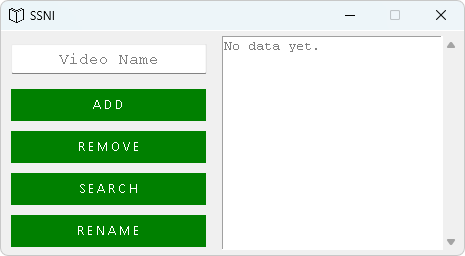
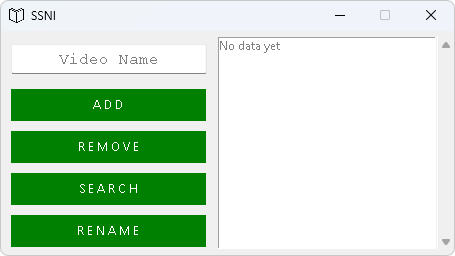
Replaced Text widget with ListBox widget Fixed image path after turning it executable

diff --git a/PROJECT GUIs/SSNI/SSNI.py b/PROJECT GUIs/SSNI/SSNI.py
@@ -37,7 +37,7 @@ class SSNI:
         pygame.init()
         pygame.mixer.music.load(self.ErrorAudioFile)
 
-        self.BackImage = PhotoImage(file='included_files/back.png')
+        self.BackImage = PhotoImage(file=self.resource_path('back.png'))
         self.buttons_attributes = {'bd': 0, 'width': _width, 'bg': 'green', 'fg': 'white',
                                    'activebackground': 'green', 'activeforeground': 'white',
                                    'cursor': 'hand2'}
@@ -45,7 +45,7 @@ class SSNI:
         self.LeftFrame = Frame(self.master)
         self.LeftFrame.pack(side=LEFT)
         self.RightFrame = Frame(self.master)
-        self.RightFrame.pack(side=RIGHT)
+        self.RightFrame.pack(side=RIGHT, pady=5, anchor='w')
 
         self.FirstLeftFrame = Frame(self.LeftFrame)
         self.FirstLeftFrame.pack(side=LEFT)
@@ -65,16 +65,12 @@ class SSNI:
         self.rename_window_button = Button(self.FirstLeftFrame, text='R E N A M E', **self.buttons_attributes, command=self.ShowRenamingWidgets)
         self.rename_window_button.pack(pady=5, ipady=buttons_ipady)
 
-        self.text_area = Text(self.RightFrame, width=27, height=13, state=DISABLED, cursor='arrow')
-        self.scrollbar = Scrollbar(self.RightFrame, orient="vertical", command=self.text_area.yview)
-        self.text_area.config(yscrollcommand=self.scrollbar.set)
-        self.text_area.pack(side=LEFT, ipady=1)
+        self.ListBoxVariable = Variable()
+        self.ListBox = Listbox(self.RightFrame, width=36, height=13, activestyle='none', listvariable=self.ListBoxVariable)
+        self.scrollbar = Scrollbar(self.RightFrame, orient="vertical", command=self.ListBox.yview)
+        self.ListBox.config(yscrollcommand=self.scrollbar.set)
+        self.ListBox.pack(side=LEFT, ipady=1)
         self.scrollbar.pack(side=RIGHT, fill='y')
-        self.RightFrame.pack(pady=5, padx=4, anchor='w')
-
-        self.text_area.config(state=NORMAL)
-        self.text_area.delete('1.0', END)
-        self.RightFrame.pack(padx=5, pady=5, side=LEFT)
 
         self.SecondLeftFrame = Frame(self.LeftFrame)
 
@@ -95,6 +91,8 @@ class SSNI:
         self.back_button = Button(self.SecondLeftFrame, image=self.BackImage, bd=0, cursor='hand2', activebackground=back_active_bg, command=self.back_command)
         self.back_button.pack(ipady=buttons_ipady)
 
+        self.master.bind('<F5>', self.InsertToListBox)
+        self.ListBox.bind('<Button-3>', self.RightClick)
         self.master.bind('<Button-1>', self.key_bindings)
         self.back_button.bind('<Return>', self.back_command)
         self.video_entry.bind('<Button-3>', self.RightClick)
@@ -102,12 +100,11 @@ class SSNI:
         self.old_name_entry.bind('<FocusIn>', self.key_bindings)
         self.new_name_entry.bind('<FocusIn>', self.key_bindings)
         self.rename_button.bind('<Return>', self.rename_command)
+        self.master.bind_class('Button', '<FocusIn>', lambda event, focus_out=True: self.key_bindings(event, focus_out))
 
         self.master.after(0, self.center_window)
-        self.master.after(0, self.insert_text_area)
+        self.master.after(0, self.InsertToListBox)
 
-        self.master.bind('<F5>', lambda e: self.insert_text_area())
-        self.master.bind_class('Button', '<FocusIn>', lambda event, focus_out=True: self.key_bindings(event, focus_out))
         self.master.mainloop()
 
     def center_window(self):
@@ -125,7 +122,7 @@ class SSNI:
 
         self.master.deiconify()
 
-    def config_entry(self, widget, color, insert=True):
+    def config_entry(self, widget, color='grey', insert=True):
         '''Configure behavior of entries widget when user clicks in or out of them'''
 
         widget.delete(0, END)
@@ -134,6 +131,7 @@ class SSNI:
 
         if insert:
             widget.insert(END, self.widgets[widget][0])
+            self.master.focus()
 
     def key_bindings(self, event, focus_out=False):
         '''When user clicks in and out of the entry boxes'''
@@ -153,6 +151,9 @@ class SSNI:
             for _widget in self.widgets:
                 if not _widget.get().strip():
                     self.config_entry(_widget, 'grey')
+
+        if widget not in [self.ListBox, self.scrollbar]:  # Remove selection of Listbox when user clicks to other widget
+            self.ListBox.selection_clear(0, END)
 
         if widget in [self.master, self.SecondLeftFrame, self.FirstLeftFrame, self.scrollbar]:
             self.master.focus()
@@ -181,56 +182,54 @@ class SSNI:
     def write_to_file(self, contents):
         '''Writting new or renamed data to the file'''
 
-        contents.sort(key=len)
-
         with open(self.file_name, 'w') as f:
             for content in contents:
                 f.write(f'{content}\n')
 
-        return contents
-
-    def insert_text_area(self, contents=None):
+    def InsertToListBox(self, event=None, contents=None, remove=False):
         '''Insert contents of file in Text widget'''
 
-        if contents is not None:
-            contents = self.write_to_file(contents)
-
-        else:
+        if contents is None:
             contents = self.read_file()
 
-        self.text_area.config(state=NORMAL)
-
         if contents:
-            self.text_area.delete('1.0', END)
-            self.text_area.config(fg='black')
+            contents.sort(key=len)
 
-            for index, content in enumerate(contents):
-                if index == 0:
-                    self.text_area.insert(END, content)
+            if self.ListBoxVariable.get() and self.ListBoxVariable.get()[0] == 'No data yet':
+                self.ListBox.itemconfig(0, foreground='black')
 
-                else:
-                    self.text_area.insert(END, '\n' + content)
+            if remove is False:
+                self.ListBoxVariable.set(contents)
+
+            else:
+                # When user removes any value then the deleted value
+                # gets selected by red color first and then after 800ms
+                # the value in the ListBox gets deleted. When doing so
+                # the ListBox scrolls back to the top(its default behavior).
+                # To avoid this default scrolling remove parameter removes
+                # the respective value without scrolling to the top.
+
+                index = self.ListBox.get(0, END).index(remove)
+                self.ListBox.delete(index)
+
+            self.write_to_file(contents)
 
         else:
-            self.text_area.delete('1.0', END)
-            self.text_area.config(fg='grey')
-            self.text_area.insert('1.0', 'No data yet.')
+            # When there is no value in text files
 
-        self.text_area.config(state=DISABLED)
+            self.ListBoxVariable.set(['No data yet'])
+            self.ListBox.itemconfig(0, foreground='grey')
 
-        try:
-            self.text_area.yview(self.line)
-            self.line = None
-
-        except (AttributeError, TclError):
-            pass
-
-    def add_remove_search_command(self, button_name):
+    def add_remove_search_command(self, button_name, from_listbox=None):
         '''Commands when user clicks either ADD, REMOVE or SEARCH buttons'''
 
-        success = False
         contents = self.read_file()
-        from_entry = self.video_entry.get().strip()
+
+        if from_listbox is None:
+            from_entry = self.video_entry.get().strip()
+
+        else:
+            from_entry = self.ListBox.selection_get()
 
         if from_entry == 'Video Name':
             pygame.mixer.music.play()
@@ -238,38 +237,32 @@ class SSNI:
         elif button_name == 'ADD':
             if from_entry in contents:
                 self.highlight(from_entry, '#e8cb10')
-                self.config_entry(self.video_entry, 'grey')
 
             else:
-                success = True
+                contents.append(from_entry)
+
+                self.InsertToListBox(contents=contents)
+                self.highlight(from_entry, 'green')
 
         elif button_name == 'REMOVE':
             if from_entry in contents:
-                self.master.focus()
+                self.ListBox.selection_clear(0, END)
                 contents.remove(from_entry)
+
                 self.highlight(from_entry, 'red')
-                self.config_entry(self.video_entry, 'grey')
-                self.master.after(800, lambda: self.insert_text_area(contents))
+                self.master.after(800, lambda: self.InsertToListBox(contents=contents, remove=from_entry))
 
             else:
                 pygame.mixer.music.play()
 
-        else:
+        elif button_name == 'SEARCH':
             if from_entry in contents:
-                self.master.focus()
                 self.highlight(from_entry, '#3ccbde')
-                self.config_entry(self.video_entry, 'grey')
 
             else:
                 pygame.mixer.music.play()
 
-        if success:
-            contents.append(from_entry)
-            self.insert_text_area(contents)
-            self.highlight(from_entry, 'green')
-
-            self.config_entry(self.video_entry, 'grey')
-            self.master.focus()
+        self.config_entry(self.video_entry)
 
     def rename_command(self, event=None):
         '''Commands when user clicks RENAME button'''
@@ -285,7 +278,7 @@ class SSNI:
             old_name_index = contents.index(old_name)
             contents[old_name_index] = new_name
 
-            self.insert_text_area(contents)
+            self.InsertToListBox(contents)
 
             for widget in [self.old_name_entry, self.new_name_entry]:
                 self.config_entry(widget, 'grey')
@@ -296,29 +289,33 @@ class SSNI:
     def highlight(self, value, color):
         '''Fill color when value is added, removed and searched'''
 
-        self.line = self.text_area.search(value, '1.0', 'end')
-        self.text_area.tag_add('highlight', self.line, f'{self.line.split(".")[0]}.end+1c')
-        self.text_area.tag_config('highlight', background=color, foreground='white')
-        self.text_area.yview(self.line)
+        index = self.ListBox.get(0, END).index(value)
+        self.ListBox.see(index)
+
+        self.ListBox.itemconfig(index, background=color, foreground='white')
 
         if self.after_id:
             self.master.after_cancel(self.after_id)
             self.after_id = None
 
-        self.after_id = self.master.after(800, lambda: self.text_area.tag_delete('highlight'))
+        self.after_id = self.master.after(800, lambda: self.ListBox.itemconfig(index, background='white', foreground='black'))
 
-    def copy_cut(self, cut=False):
+    def copy_cut(self, cut=False, from_listbox=False):
         '''Command for copying and cutting selected text of entry widget'''
 
         if self.video_entry.selection_present():
             text = self.video_entry.get()
-            pyperclip.copy(text)  # Copying selected text to clipboard
 
             if cut:
                 # When user clicks to the cut option of right-click
                 # menu then deleting the text inside of the selection
 
                 self.video_entry.delete('sel.first', 'sel.last')
+
+        elif from_listbox is True:
+            text = self.ListBox.selection_get()
+
+        pyperclip.copy(text)  # Copying selected text to clipboard
 
     def paste(self):
         '''Command for pasting text from system clipboard to the position
@@ -335,32 +332,56 @@ class SSNI:
     def RightClick(self, event=None):
         '''When user right clicks inside list-box'''
 
+        x, y = self.master.winfo_pointerxy()
+        widget = self.master.winfo_containing(x, y)
         RightClickMenu = Menu(self.master, tearoff=False)
 
-        RightClickMenu.add_command(label='Copy', command=self.copy_cut)
-        RightClickMenu.add_command(label='Cut', command=lambda: self.copy_cut(cut=True))
-        RightClickMenu.add_command(label='Paste', command=self.paste)
+        if widget == self.video_entry:
+            RightClickMenu.add_command(label='Copy', command=self.copy_cut)
+            RightClickMenu.add_command(label='Cut', command=lambda: self.copy_cut(cut=True))
+            RightClickMenu.add_command(label='Paste', command=self.paste)
 
-        if not pyperclip.paste():
-            # When there is no text in clipboard then
-            # disabling paste options in right-click menu
+            if not pyperclip.paste():
+                # When there is no text in clipboard then
+                # disabling paste options in right-click menu
 
-            RightClickMenu.entryconfig(2, state='disabled')
+                RightClickMenu.entryconfig(2, state='disabled')
 
-        if self.video_entry.select_present() is False:
-            # When there is no selection in entry widget then
-            # disabling copy and cut options in right-click menu
+            if self.video_entry.select_present() is False:
+                # When there is no selection in entry widget then
+                # disabling copy and cut options in right-click menu
 
-            RightClickMenu.entryconfig(0, state='disabled')
-            RightClickMenu.entryconfig(1, state='disabled')
+                RightClickMenu.entryconfig(0, state='disabled')
+                RightClickMenu.entryconfig(1, state='disabled')
 
-            if self.master.focus_get() != self.video_entry:
-                # When the cursor is over the entry widget and
-                # user right clicks to entry widget then generating
-                # left click event to set focus to entry widget
-                # before showing pop-up menu
+                if self.master.focus_get() != self.video_entry:
+                    # When the cursor is over the entry widget and
+                    # user right clicks to entry widget then generating
+                    # left click event to set focus to entry widget
+                    # before showing pop-up menu
 
-                self.video_entry.event_generate('<Button-1>')
+                    self.video_entry.event_generate('<Button-1>')
+
+        elif widget == self.ListBox:
+            _y = event.y
+            nearset = self.ListBox.nearest(_y)  # Getting index nearest to the cursor
+            bbox = self.ListBox.bbox(nearset)   # Getting the x, y, width and height of value of the obtained nearest index
+            from_listbox = self.ListBoxVariable.get()
+
+            if (from_listbox and from_listbox[0] == 'No data yet') or (nearset == 0 and _y > bbox[-1]):  # When there is no data in Listbox
+                RightClickMenu.add_command(label='Load from file', command=self.InsertToListBox)
+
+            else:
+                self.ListBox.event_generate('<Button-1>')
+
+                # Removing previous selection
+                self.ListBox.select_clear(0, END)
+
+                # Selecting the obtained nearest index
+                self.ListBox.selection_set(nearset)
+
+                RightClickMenu.add_command(label='Copy', command=lambda: self.copy_cut(from_listbox=True))
+                RightClickMenu.add_command(label='Remove', command=lambda: self.add_remove_search_command('REMOVE', from_listbox=True))
 
         try:
             RightClickMenu.tk_popup(event.x_root, event.y_root)
